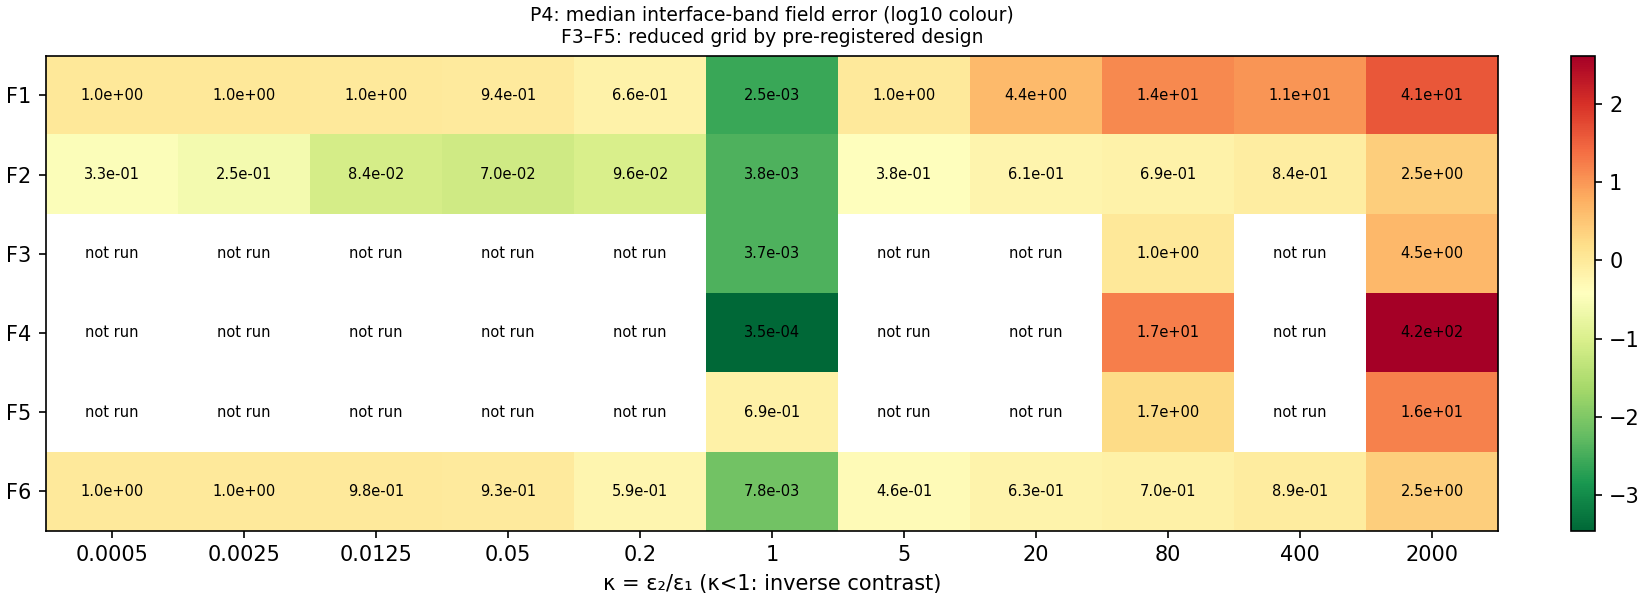
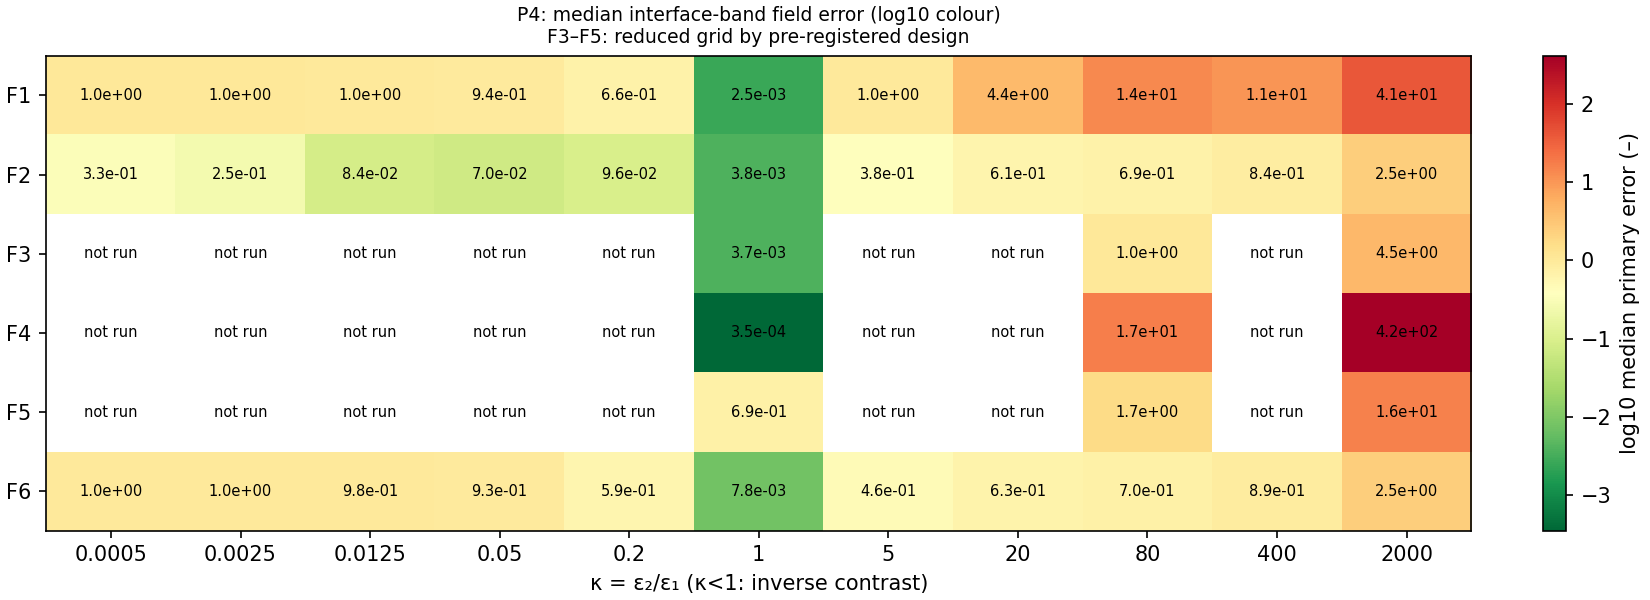
figure labels: colorbars, units

diff --git a/src/analysis/p2_summary.py b/src/analysis/p2_summary.py
@@ -104,13 +104,13 @@ def main():
             for j in range(len(ks)):
                 v = pv.values[i, j]; ax.text(j, i, "not run" if np.isnan(v) else fmt(v), ha="center", va="center", fontsize=7)
         ax.set_xlabel("κ = ε_inclusion / ε_matrix (κ<1: inverse contrast)"); ax.set_title(ttl + "\nF3–F5: reduced grid by pre-registered design", fontsize=9)
-        fig.colorbar(im, ax=ax); fig.savefig(ROOT / "results/figures" / fn, dpi=150); plt.close(fig)
+        fig.colorbar(im, ax=ax, label="log10 median primary error (–)" if lg else "failed seeds (of 5)"); fig.savefig(ROOT / "results/figures" / fn, dpi=150); plt.close(fig)
     fig, ax = plt.subplots(figsize=(6.2, 4.6), constrained_layout=True)
     for k, c in ((80.0, "tab:orange"), (2000.0, "tab:red"), (0.0005, "tab:blue")):
         for conf, ls in ((True, "-o"), (False, "--s")):
             g = fem[(fem.kappa == k) & (fem.conforming == conf)].sort_values("dofs")
             ax.loglog(g.dofs, g.primary_field_error, ls, color=c, ms=4, label=f"κ={k:g}, {'body-fitted' if conf else 'non-conforming'}")
-    ax.axhline(.05, c="k", ls=":"); ax.set_xlabel("FEM degrees of freedom (P2 elements)"); ax.set_ylabel("interface-band field error")
+    ax.axhline(.05, c="k", ls=":"); ax.set_xlabel("FEM degrees of freedom (quadratic elements) (–)"); ax.set_ylabel("primary interface-band field error (–)")
     ax.set_title("P2 FEM convergence (body-fitted vs non-conforming)", fontsize=9); ax.legend(fontsize=6); ax.grid(alpha=.3, which="both")
     fig.savefig(ROOT / "results/figures/p2_fem_convergence.png", dpi=150); plt.close(fig)
     return t, res

diff --git a/src/analysis/p1_hypotheses.py b/src/analysis/p1_hypotheses.py
@@ -157,7 +157,7 @@ def main():
             g = t_[t_.formulation == f]
             ax.loglog(g.kappa, g[cols[0]].clip(lower=1e-9), "-o", color=c, ms=3, label=f"{f} {cols[0].split('_')[-1]}")
             ax.loglog(g.kappa, g[cols[1]].clip(lower=1e-9), "--s", color=c, ms=3, label=f"{f} {cols[1].split('_')[-1]}")
-        ax.axhline(.05, c="k", ls=":"); ax.set_xlabel("κ"); ax.set_ylabel("median over 5 seeds (clipped at 1e-9)"); ax.set_title(ttl, fontsize=9)
+        ax.axhline(.05, c="k", ls=":"); ax.set_xlabel("contrast κ = ε₂/ε₁ (–)"); ax.set_ylabel("median over 5 seeds, relative error (–; clipped at 1e-9)"); ax.set_title(ttl, fontsize=9)
         ax.grid(alpha=.3, which="both")
     axes[0].legend(fontsize=5, ncol=2)
     fig.savefig(ROOT / "results/figures/p1_material_and_jumps.png", dpi=150); plt.close(fig)

diff --git a/src/analysis/summary2d.py b/src/analysis/summary2d.py
@@ -117,7 +117,7 @@ def main(pid):
             for j in range(len(ks)):
                 v = pv.values[i, j]; ax.text(j, i, "not run" if np.isnan(v) else fmt(v), ha="center", va="center", fontsize=7)
         ax.set_xlabel("κ = ε₂/ε₁ (κ<1: inverse contrast)"); ax.set_title(ttl + "\nF3–F5: reduced grid by pre-registered design", fontsize=9)
-        fig.colorbar(im, ax=ax); fig.savefig(ROOT / "results/figures" / fn, dpi=150); plt.close(fig)
+        fig.colorbar(im, ax=ax, label="log10 median primary error (–)" if lg else "failed seeds (of 5)"); fig.savefig(ROOT / "results/figures" / fn, dpi=150); plt.close(fig)
     return t, res
 
 
